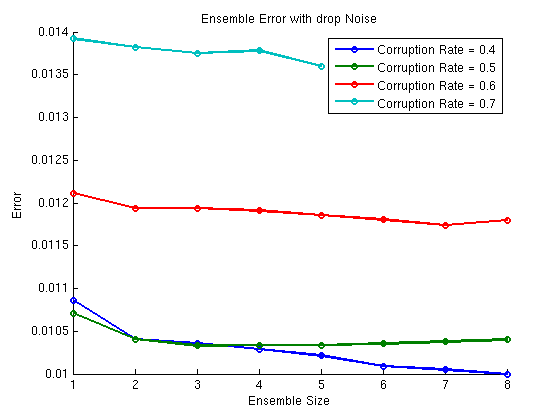
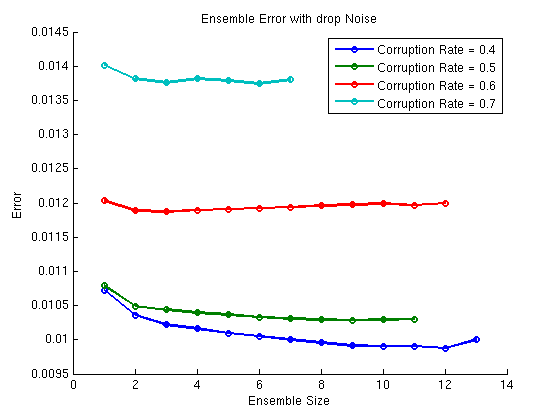
added new files

diff --git a/Final.tex b/Final.tex
@@ -502,13 +502,13 @@ We ran several experiments to determine which method of ensemble prediction woul
 
 The quantitative results of the experiment for random and salt \& pepper noise (Table \ref{tab:PollingMethods}) were not clear, because some of the corruption rates had only one or two models in the ensemble. It is not fair to compare the performance of these different voting schemes with so few models, becuase the lack of ensemble size hides any strengths or weaknesses of the respective prediction methods. Therefore we only analyze the results of the ensemble prediction methods for standard dropout corruption.
 
-Mean polling and product polling perform very similarly at all corruption rates (Figure \ref{fig:PollingMethods}). Product polling is a bit more sensitive to outliers as their effect is felt more through the multiplication operation than simple addition. The performance of these two methods tends to be in the middle of the pack at all corruption rates. In contrast, max, min, and median polling tend to find themselves closer to the extremes in performance. This makes sense, as they only use the output of one network for prediction, although all networks are considered when selecting the min, max, or median. Median polling takes substantially longer than the other variations, as the network predictions must first be sorted. However, median polling is also robust to outliers, which can be advantageous for networks that have the potential to overfit.
+Mean polling and product polling perform very similarly at all corruption rates (Figure \ref{fig:PollingMethods2}). Product polling is a bit more sensitive to outliers as their effect is felt more through the multiplication operation than simple addition. The performance of these two methods tends to be in the middle of the pack at all corruption rates. In contrast, max, min, and median polling tend to find themselves closer to the extremes in performance. This makes sense, as they only use the output of one network for prediction, although all networks are considered when selecting the min, max, or median. Although competitive in performance \ref{fig:PollingMethods1}, median polling takes substantially longer than the other variations, as the network predictions must first be sorted. Because fast inference is extremely important, we did not include median polling in the second run of experiments with larger ensemble sizes (Table \ref{tab:PollingMethods2}, Figure \ref{fig:PollingMethods2}).
 
-The results from the experiment do not suggest a clear choice for which ensemble prediction method should be used for polling an ensemble of dropout networks. The same experiment would need to be run on a much larger scale to reduce the effect of chance by allowing for a much larger number of ensemble combinations at each ensemble size.
+The results from the experiment do not suggest a clear choice for which ensemble prediction method should be used for polling an ensemble of dropout networks. The same experiment would need to be run on a much larger scale to reduce the effect of chance by allowing for a much larger number of ensemble combinations at each ensemble size. Furthermore, the ensembles of dropout networks do not appear to have fully saturated in performance, even with over 10 models. This implies that even larger ensembles may yield greater performance. Adding more networks would allow us to extrapolate the curve even further and see if there is a difference between where the various ensemble prediction methods plateau.
 
 \begin{table}[ht]
-\caption{Test classification error using mean polling for each individual netowrk prediction run and the indicated polling method for ensemble prediction}
-\label{tab:PollingMethods}
+\caption{Test classification error using mean polling for each individual network prediction run and the indicated polling method for ensemble prediction}
+\label{tab:PollingMethods1}
 \begin{center}
 \begin{tabular}{| l |  l  ||| l | l | l | l |}
 \hline
@@ -552,7 +552,7 @@ Random & Product & 0.0181 & 0.0158 & 0.0168 & 0.0181 \\
 \end{table}
 
 \begin{figure}[ht] 
-  \label{fig:PollingMethods} 
+  \label{fig:PollingMethods1} 
   \begin{minipage}[b]{0.5\linewidth}
     \centering
     \includegraphics[width=\linewidth]{methods8} 
@@ -578,6 +578,80 @@ Random & Product & 0.0181 & 0.0158 & 0.0168 & 0.0181 \\
     \vspace{4ex}
   \end{minipage} 
   \caption{Ensemble error rate for different polling methods. Only networks with standard dropout corruption type were used.}
+\end{figure}
+
+\begin{table}[ht]
+\caption{Test classification error using mean polling for each individual network prediction run and the indicated polling method for ensemble prediction. More models were included in this run than in Table \ref{tab:PollingMethods1}}.
+\label{tab:PollingMethods2}
+\begin{center}
+\begin{tabular}{| l |  l  ||| l | l | l | l |}
+\hline
+Corruption Type & Polling Method & 0.4 & 0.5 & 0.6 & 0.7\\
+\hline
+\hline
+Dropout & Mean & 0.0100 & 0.0104 & 0.0118 & 0.0136 \\
+\hline
+Dropout & Median & 0.0980 & 0.0105 & 0.0120 & 0.0135 \\
+\hline
+Dropout & Max & 0.0105 & 0.0100 & 0.0116 & 0.0134 \\
+\hline
+Dropout & Min & 0.0104 & 0.0104 & 0.0115 & 0.0140 \\
+\hline
+Dropout & Product & 0.0100 & 0.0104 & 0.0117 & 0.0136 \\
+\hline
+\hline
+Salt \& Pepper & Mean & 0.0209 & 0.0189 & 0.0189 & 0.0226 \\
+\hline
+Salt \& Pepper & Median & 0.0167 & 0.0209 & 0.0189 & 0.0231\\
+\hline
+Salt \& Pepper & Max & 0.0166 & 0.0205 & 0.0189 & 0.0234 \\
+\hline
+Salt \& Pepper & Min & 0.0170 & 0.0207 & 0.0189 & 0.0226 \\
+\hline
+Salt \& Pepper & Product & 0.0167 & 0.0207 & 0.0189 & 0.0225 \\
+\hline
+\hline
+Random & Mean & 0.0181 & 0.0159 & 0.0170 & 0.0181 \\
+\hline
+Random & Median & 0.0181 & 0.0161 & 0.0168 & 0.0182 \\
+\hline
+Random & Max & 0.0181 & 0.0156 & 0.0173 & 0.0185 \\
+\hline
+Random & Min & 0.0181 & 0.0155 & 0.0174 & 0.0185 \\
+\hline
+Random & Product & 0.0181 & 0.0158 & 0.0168 & 0.0181 \\
+\hline
+\end{tabular}∫
+\end{center}
+\end{table}
+
+\begin{figure}[ht] 
+  \label{fig:PollingMethods2} 
+  \begin{minipage}[b]{0.5\linewidth}
+    \centering
+    \includegraphics[width=\linewidth]{methods8a} 
+    \subcaption{0.4 Corruption Rate} 
+    \vspace{4ex}
+  \end{minipage}%%
+  \begin{minipage}[b]{0.5\linewidth}
+    \centering
+    \includegraphics[width=\linewidth]{methods7a} 
+    \subcaption{0.5 Corruption Rate} 
+    \vspace{4ex}
+  \end{minipage} 
+  \begin{minipage}[b]{0.5\linewidth}
+    \centering
+    \includegraphics[width=\linewidth]{methods6a} 
+    \subcaption{0.6 Corruption Rate} 
+    \vspace{4ex}
+  \end{minipage}%% 
+  \begin{minipage}[b]{0.5\linewidth}
+    \centering
+    \includegraphics[width=\linewidth]{methods5a} 
+    \subcaption{0.7 Corruption Rate} 
+    \vspace{4ex}
+  \end{minipage} 
+  \caption{Ensemble error rate for different polling methods. Only networks with standard dropout corruption type were used. More models were included in this run than in Figure \ref{fig:PollingMethods1}.}
 \end{figure}
 
 \subsection{Conclusions}
